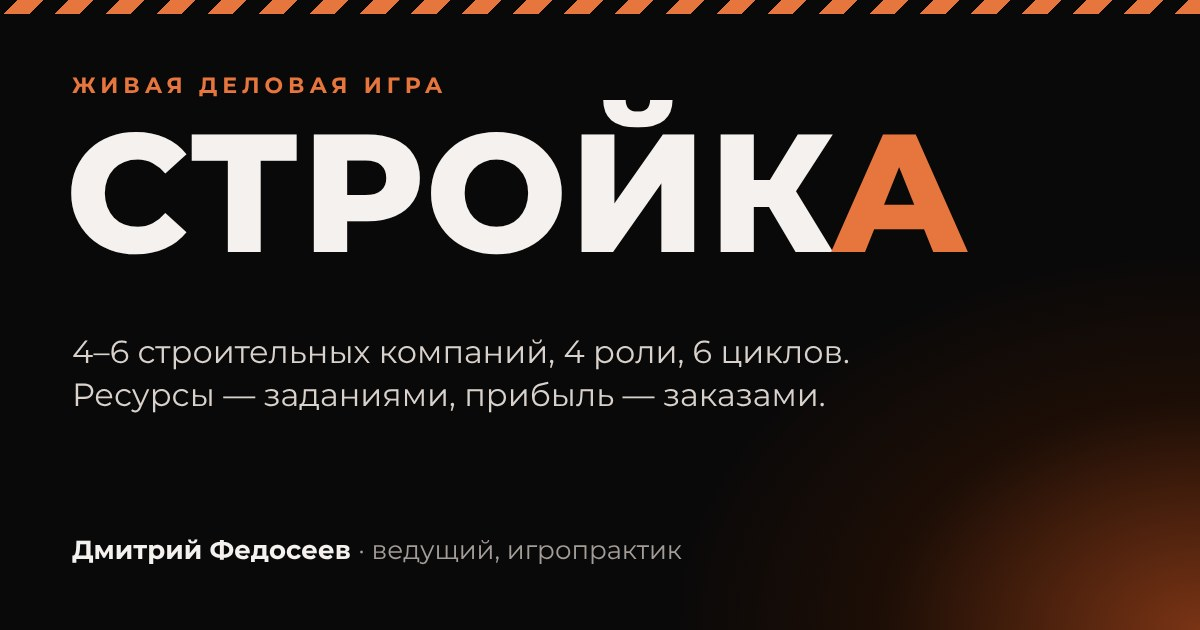
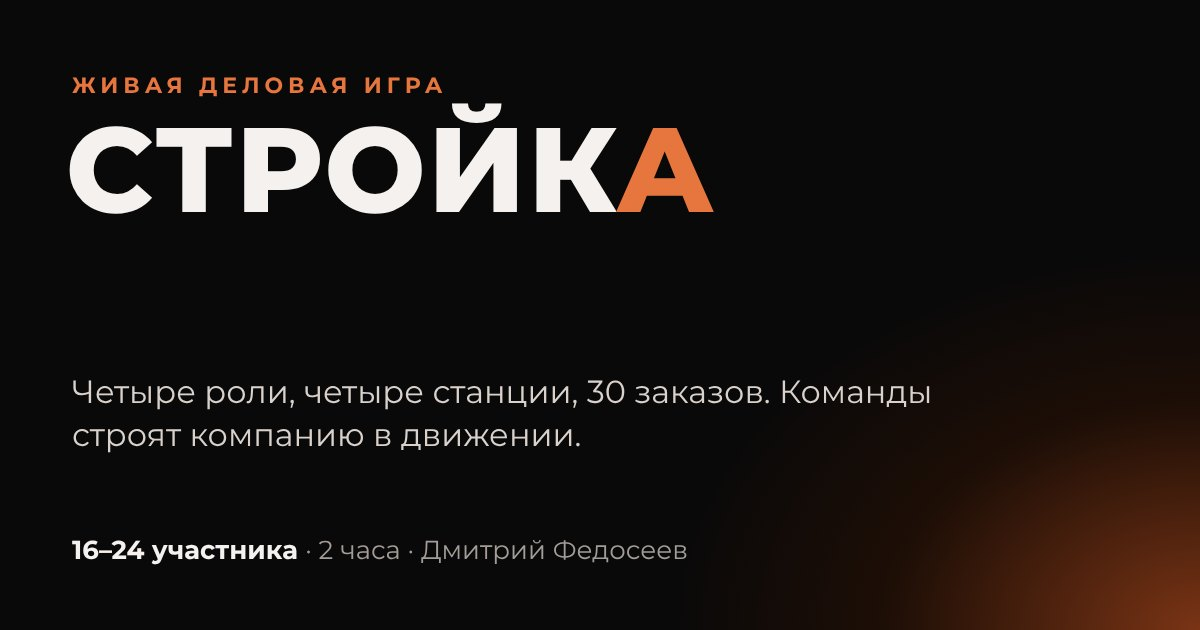
Add files via upload

diff --git a/index.html b/index.html
@@ -209,45 +209,79 @@ footer .wrap { padding-block: 22px; display: flex; flex-wrap: wrap; gap: 8px 24p
 @media (max-width: 900px) { .contact .wrap { grid-template-columns: 1fr; } .crow { grid-template-columns: minmax(0, 1fr) auto; } .crow span { grid-column: 1 / -1; } }
 </style>
 <style>
-/* Стройка: тот же фирменный стиль, свой мотив — разметка зала и строительные «ленты» */
-.tape { height: 10px; background: repeating-linear-gradient(-45deg, var(--accent) 0 14px, var(--bg) 14px 28px); opacity: .9; }
-.back { font-size: 14px; color: var(--dim); text-decoration: none; white-space: nowrap; }
-.back:hover { color: var(--ink); }
 @media (max-width: 560px) { .back { display: none; } }
 
-/* схема зала */
-.hall { position: relative; border: 1px dashed #4A403A; background:
-  linear-gradient(var(--line) 1px, transparent 1px) 0 0 / 40px 40px,
-  linear-gradient(90deg, var(--line) 1px, transparent 1px) 0 0 / 40px 40px, #0D0B0A;
-  aspect-ratio: 4 / 3; max-width: 100%; }
-.st { position: absolute; width: 33%; padding: 12px 14px; background: var(--panel); border: 1px solid var(--line); border-left: 3px solid var(--accent); }
-.st b { display: block; font-family: var(--f-display); font-weight: 800; font-size: 15px; }
-.st span { display: block; margin-top: 2px; font-size: 12px; color: var(--dim); line-height: 1.3; }
-.st.tl { left: 4%; top: 5%; } .st.tr { right: 4%; top: 5%; } .st.bl { left: 4%; bottom: 5%; } .st.br { right: 4%; bottom: 5%; }
-.board { position: absolute; left: 50%; top: 50%; transform: translate(-50%, -50%); width: 30%; padding: 12px; text-align: center; background: var(--accent); color: var(--accent-ink); font-family: var(--f-display); font-weight: 800; font-size: 14px; }
-.board small { display: block; font-weight: 600; font-size: 11px; margin-top: 2px; }
-.base { position: absolute; width: 9%; aspect-ratio: 1; border: 1px solid #5A4E46; background: rgba(230,118,62,.08); display: grid; place-items: center; font-family: var(--f-display); font-weight: 700; font-size: 11px; color: var(--dim); }
-.hall-cap { margin-top: 10px; font-size: 13px; color: var(--dim); }
-@media (max-width: 520px) { .st { width: 37%; padding: 8px 9px; } .st b { font-size: 12px; } .st span { display: none; } .board { font-size: 11px; width: 34%; } .board small { display: none; } .base { font-size: 9px; } }
+/* веер карт заказов */
+.fan { position: relative; height: 420px; --dx: 192px; }
+.oc { position: absolute; top: 50%; left: 50%; width: 182px; min-height: 290px; padding: 14px 14px 12px; display: flex; flex-direction: column; gap: 10px;
+  background: linear-gradient(168deg, #201C19, #0E0C0B 70%); border: 1px solid #3A322D; box-shadow: 0 24px 60px rgba(0,0,0,.65); }
+.oc.a { transform: translate(calc(-50% - var(--dx)), -47%) rotate(-7deg); }
+.oc.b { transform: translate(-50%, -54%); z-index: 2; border-color: var(--accent); }
+.oc.c { transform: translate(calc(-50% + var(--dx)), -47%) rotate(7deg); }
+.oc .top { display: flex; justify-content: space-between; font-family: var(--f-display); font-weight: 700; font-size: 10px; letter-spacing: .16em; text-transform: uppercase; color: var(--dim); }
+.oc .top b { color: var(--accent); font-weight: 700; }
+.oc.m .top b { color: #E8B92E; }
+.oc h4 { margin: 2px 0 0; font-family: var(--f-display); font-weight: 800; font-size: 17px; line-height: 1.1; }
+.oc .need { display: grid; gap: 5px; font-size: 13px; }
+.oc .need div { display: flex; align-items: center; gap: 8px; }
+.oc .need svg { width: 20px; height: 20px; flex: none; }
+.oc .need b { margin-left: auto; font-family: var(--f-display); font-weight: 800; font-variant-numeric: tabular-nums; }
+.oc .req { margin-top: auto; font-size: 11px; color: var(--dim); }
+.oc .pay { display: grid; grid-template-columns: 1fr 1fr; gap: 6px; }
+.oc .pay div { padding: 6px 8px; font-size: 10px; letter-spacing: .08em; text-transform: uppercase; }
+.oc .pay b { display: block; font-family: var(--f-display); font-size: 20px; letter-spacing: 0; text-transform: none; font-variant-numeric: tabular-nums; }
+.oc .win { background: rgba(92,192,138,.14); color: #8FD9AE; }
+.oc .loss { background: rgba(226,109,90,.14); color: #F0A091; }
+.fan-cap { margin-top: 6px; font-size: 13px; color: var(--dim); }
+.chips { position: absolute; left: 50%; bottom: 0; transform: translateX(-50%); display: flex; gap: 8px; z-index: 3; }
+.chips span { display: grid; place-items: center; width: 44px; height: 44px; background: var(--panel); border: 1px solid var(--line); }
+.chips svg { width: 26px; height: 26px; }
+@media (max-width: 1000px) { .fan { height: 400px; --dx: 160px; } .oc { width: 156px; min-height: 260px; } .oc h4 { font-size: 16px; } .oc .need { font-size: 12px; } }
+@media (max-width: 560px) { .fan { height: 290px; --dx: 112px; } .oc { width: 106px; min-height: 190px; padding: 10px; gap: 6px; } .oc h4 { font-size: 13px; } .oc .need { font-size: 10px; gap: 3px; } .oc .need svg { width: 14px; height: 14px; } .oc .pay b { font-size: 14px; } .oc .pay div { font-size: 8px; padding: 4px 5px; } .oc .top { font-size: 8px; } .oc .req { display: none; } .oc .top b { display: none; } .oc .pay { grid-template-columns: 1fr; gap: 3px; } .oc h4 { font-size: 12px; hyphens: auto; } .fan { height: 330px; } .chips span { width: 34px; height: 34px; } .chips svg { width: 20px; height: 20px; } }
 
 /* роли */
 .roles { display: grid; grid-template-columns: repeat(4, minmax(0, 1fr)); gap: 14px; }
-.role { padding: 22px 20px 22px; background: var(--panel); border: 1px solid var(--line); min-width: 0; display: flex; flex-direction: column; gap: 10px; }
-.role .badge { align-self: flex-start; font-family: var(--f-display); font-weight: 700; font-size: 11px; letter-spacing: .14em; text-transform: uppercase; padding: 5px 9px; background: var(--panel-2); border: 1px solid var(--line); color: var(--dim); }
+.role { padding: 22px 20px; background: var(--panel); border: 1px solid var(--line); min-width: 0; display: flex; flex-direction: column; gap: 10px; }
+.role .num { font-family: var(--f-display); font-weight: 900; font-size: 34px; line-height: 1; color: var(--accent); }
+.role .badge { align-self: flex-start; font-family: var(--f-display); font-weight: 700; font-size: 11px; letter-spacing: .14em; text-transform: uppercase; color: var(--dim); }
 .role h3 { font-size: 20px; font-weight: 800; }
 .role p { font-size: 14px; color: var(--dim); }
-.role .lim { margin-top: auto; padding-top: 12px; border-top: 1px solid var(--line); font-size: 13px; color: var(--ink); }
+.role .lim { margin-top: auto; padding-top: 12px; border-top: 1px solid var(--line); font-size: 13px; }
 @media (max-width: 900px) { .roles { grid-template-columns: 1fr 1fr; } }
 @media (max-width: 520px) { .roles { grid-template-columns: 1fr; } }
 
+/* план зала */
+.plan { display: grid; grid-template-columns: minmax(0, 1.25fr) minmax(0, 1fr); gap: 32px; align-items: center; margin-top: 40px; }
+.plan svg { width: 100%; height: auto; display: block; }
+.plan ol { margin: 0; padding: 0; list-style: none; display: grid; gap: 16px; counter-reset: s; }
+.plan li { display: grid; grid-template-columns: 34px minmax(0, 1fr); gap: 12px; font-size: 15px; color: var(--dim); }
+.plan li::before { counter-increment: s; content: counter(s); display: grid; place-items: center; width: 34px; height: 34px; border: 1px solid var(--accent); color: var(--accent); font-family: var(--f-display); font-weight: 800; }
+.plan li b { color: var(--ink); font-weight: 600; }
+@media (max-width: 900px) { .plan { grid-template-columns: 1fr; } }
+
 /* ресурсы */
 .res { display: grid; grid-template-columns: repeat(5, minmax(0, 1fr)); gap: 1px; background: var(--line); border: 1px solid var(--line); }
-.res div { background: var(--bg); padding: 18px 16px 20px; min-width: 0; }
+.res > div { background: var(--bg); padding: 20px 18px; min-width: 0; display: flex; flex-direction: column; gap: 8px; }
+.res svg { width: 40px; height: 40px; }
 .res .cls { font-family: var(--f-display); font-weight: 700; font-size: 11px; letter-spacing: .14em; text-transform: uppercase; color: var(--dim); }
 .res .cls.el { color: var(--accent); }
-.res h3 { margin: 8px 0 6px; font-size: 18px; font-weight: 800; }
+.res h3 { font-size: 18px; font-weight: 800; }
 .res p { font-size: 14px; color: var(--dim); }
+.res .rw { margin-top: auto; font-size: 13px; color: var(--ink); }
 @media (max-width: 900px) { .res { grid-template-columns: 1fr 1fr; } }
+
+/* уровни заказов и капитал */
+.lv { width: 100%; border-collapse: collapse; font-size: 15px; }
+.lv th, .lv td { text-align: left; padding: 14px 16px; border-bottom: 1px solid var(--line); }
+.lv th { font-family: var(--f-display); font-weight: 700; font-size: 11px; letter-spacing: .14em; text-transform: uppercase; color: var(--dim); }
+.lv td:first-child { font-family: var(--f-display); font-weight: 800; }
+.lv .g { color: #8FD9AE; } .lv .r { color: #F0A091; }
+.tblwrap { overflow-x: auto; border: 1px solid var(--line); background: var(--panel); }
+.cap { margin-top: 18px; display: grid; grid-template-columns: auto minmax(0, 1fr); gap: 28px; align-items: center; padding: 24px 26px; border: 1px solid var(--accent); background: linear-gradient(160deg, rgba(230,118,62,.12), var(--panel) 60%); }
+.cap .f { font-family: var(--f-display); font-weight: 800; font-size: clamp(18px, 2vw, 24px); line-height: 1.25; max-width: 22ch; }
+.cap .f i { font-style: normal; color: var(--accent); }
+.cap p { font-size: 14px; color: var(--dim); }
+@media (max-width: 800px) { .cap { grid-template-columns: 1fr; gap: 10px; } }
 
 /* цикл */
 .cycle { display: grid; grid-template-columns: 1fr 11fr 3fr; border: 1px solid var(--line); }
@@ -260,53 +294,48 @@ footer .wrap { padding-block: 22px; display: flex; flex-wrap: wrap; gap: 8px 24p
 .arc { margin-top: 18px; display: grid; grid-template-columns: repeat(3, minmax(0, 1fr)); gap: 14px; }
 .arc div { border-top: 2px solid var(--accent); padding-top: 14px; min-width: 0; }
 .arc .n { font-family: var(--f-display); font-weight: 700; font-size: 12px; letter-spacing: .14em; color: var(--dim); }
-.arc h3 { margin: 6px 0 6px; font-size: 18px; font-weight: 800; }
+.arc h3 { margin: 6px 0; font-size: 18px; font-weight: 800; }
 .arc p { font-size: 14px; color: var(--dim); }
 @media (max-width: 700px) { .cycle { grid-template-columns: 1fr; } .cycle div { border-left: 0; border-top: 1px solid var(--line); } .cycle div:first-child { border-top: 0; } .arc { grid-template-columns: 1fr; } }
-
-.compare { margin-top: 18px; display: grid; grid-template-columns: minmax(0, 1fr) auto; gap: 20px; align-items: center; padding: 22px 24px; border: 1px solid var(--line); background: var(--panel); }
-.compare h3 { font-size: 18px; font-weight: 800; }
-.compare p { margin-top: 6px; font-size: 15px; color: var(--dim); max-width: 62ch; }
-@media (max-width: 700px) { .compare { grid-template-columns: 1fr; } }
 </style>
 
 </head>
 <body>
 <header class="top"><div class="wrap">
   <a class="logo" href="#top"><i class="slash"></i>СТРОЙКА</a>
-  <a class="back" href="https://dfedoseev04.github.io/">← Все игры и выступления</a>
-  <nav><a href="#for">Для кого</a><a href="#how">Как устроена</a><a href="#process">Как проходит</a><a href="#faq">Вопросы</a></nav>
+  <a class="back" href="https://dfedoseev04.github.io/#games">← Все игры и выступления</a>
+  <nav><a href="#for">Для кого</a><a href="#how">Как устроена</a><a href="#orders">Заказы</a><a href="#process">Как проходит</a><a href="#faq">Вопросы</a></nav>
   <a class="btn" href="https://t.me/Faterful" target="_blank" rel="noopener">Обсудить игру</a>
 </div></header>
-<div class="tape" aria-hidden="true"></div>
 
 <main id="top">
 <section class="hero"><div class="wrap">
   <div>
     <div class="brand"><i class="slash"></i><span>СТРОЙК<b>А</b></span></div>
-    <h1>Живая деловая игра: команды <em>строят компанию в движении</em></h1>
-    <p class="lead">Каждый игрок отвечает за свой участок: деньги, заказы, снабжение или развитие. Ресурсы добываются заданиями на силу, логику, творчество и командную работу, а прибыль приносят заказы, сданные в срок. Всё это без экранов и техники, на ногах.</p>
+    <h1>Живая деловая игра, в которой команды <em>строят компанию в движении</em></h1>
+    <p class="lead">Четыре роли, четыре станции и ни одного экрана. Снабженец добывает ресурсы заданиями на силу, логику и творчество, Менеджер берёт заказы, Инженер развивает компанию, а Управляющий решает, на что тратить каждую монету.</p>
     <div class="cta"><a class="btn" href="https://t.me/Faterful" target="_blank" rel="noopener">Написать в Telegram</a><a class="btn ghost" href="#how">Как устроена игра</a></div>
     <div class="params">
       <div><b>16–24</b><span>участника, 4–6 команд по 4</span></div>
       <div><b>2 часа</b><span>6 игровых циклов и итоги</span></div>
-      <div><b>4 роли</b><span>у каждого игрока своя</span></div>
-      <div><b>без техники</b><span>зал, станции и ведущие</span></div>
+      <div><b>30 заказов</b><span>от плиты до космического модуля</span></div>
+      <div><b>без техники</b><span>карты, фишки и ведущие</span></div>
     </div>
   </div>
   <figure style="margin:0">
-    <div class="hall" role="img" aria-label="Схема зала: четыре станции по углам, табло в центре, базы команд вдоль стен">
-      <div class="st tl"><b>Рынок</b><span>заказы, продажа ресурсов, договоры</span></div>
-      <div class="st tr"><b>Цех снабжения</b><span>задания за ресурсы</span></div>
-      <div class="st bl"><b>Переговорная</b><span>касса команды и договоры</span></div>
-      <div class="st br"><b>Конструкторское бюро</b><span>улучшения компании</span></div>
-      <div class="board">ТАБЛО<small>капитал и репутация команд</small></div>
-      <div class="base" style="left:45.5%;top:3%">А</div>
-      <div class="base" style="left:45.5%;bottom:3%">Б</div>
-      <div class="base" style="left:2%;top:41%">В</div>
-      <div class="base" style="right:2%;top:41%">Г</div>
+    <div class="fan" role="img" aria-label="Три карты заказов: Фундаментная плита, Каркас здания и Космический модуль, под ними фишки пяти ресурсов">
+      <div class="oc a"><div class="top"><span>Лёгкий</span><b>2 цикла</b></div><h4>Фундаментная плита</h4>
+        <div class="need"><div><svg viewBox="0 0 24 24" aria-hidden="true"><path d="M3 17 6.5 8h11L21 17Z" fill="#8E8A86" stroke="#C9C4BF" stroke-width="1.2"/><path d="M6.5 8 8 11h8l1.5-3" fill="none" stroke="#C9C4BF" stroke-width="1"/></svg>металл<b>×2</b></div><div><svg viewBox="0 0 24 24" aria-hidden="true"><path d="M12 3 20 7.5v9L12 21l-8-4.5v-9Z" fill="#1A1817" stroke="#6E6863" stroke-width="1.2"/><path d="M4 7.5 12 12l8-4.5M12 12v9" fill="none" stroke="#6E6863" stroke-width="1.2"/></svg>бетон<b>×1</b></div></div>
+        <div class="req">Доступен сразу</div><div class="pay"><div class="win">Награда<b>+6</b></div><div class="loss">Неустойка<b>−2</b></div></div></div>
+      <div class="oc b"><div class="top"><span>Сложный</span><b>2 цикла</b></div><h4>Каркас здания</h4>
+        <div class="need"><div><svg viewBox="0 0 24 24" aria-hidden="true"><path d="M3 17 6.5 8h11L21 17Z" fill="#8E8A86" stroke="#C9C4BF" stroke-width="1.2"/><path d="M6.5 8 8 11h8l1.5-3" fill="none" stroke="#C9C4BF" stroke-width="1"/></svg>металл<b>×5</b></div><div><svg viewBox="0 0 24 24" aria-hidden="true"><rect x="2.5" y="7" width="19" height="10" rx="1.5" fill="#8A5A34" stroke="#C08A5C" stroke-width="1.2"/><path d="M5 10.5h8M9 13.5h9M5 13.5h1.5" stroke="#C08A5C" stroke-width="1.1" stroke-linecap="round"/></svg>дерево<b>×4</b></div><div><svg viewBox="0 0 24 24" aria-hidden="true"><path d="M12 3 20 7.5v9L12 21l-8-4.5v-9Z" fill="#1A1817" stroke="#6E6863" stroke-width="1.2"/><path d="M4 7.5 12 12l8-4.5M12 12v9" fill="none" stroke="#6E6863" stroke-width="1.2"/></svg>бетон<b>×2</b></div></div>
+        <div class="req">Нужна репутация 6+</div><div class="pay"><div class="win">Награда<b>+26</b></div><div class="loss">Неустойка<b>−10</b></div></div></div>
+      <div class="oc c m"><div class="top"><span>Мега</span><b>3 цикла</b></div><h4>Космический модуль</h4>
+        <div class="need"><div><svg viewBox="0 0 24 24" aria-hidden="true"><path d="M3 17 6.5 8h11L21 17Z" fill="#8E8A86" stroke="#C9C4BF" stroke-width="1.2"/><path d="M6.5 8 8 11h8l1.5-3" fill="none" stroke="#C9C4BF" stroke-width="1"/></svg>металл<b>×5</b></div><div><svg viewBox="0 0 24 24" aria-hidden="true"><rect x="2.5" y="7" width="19" height="10" rx="1.5" fill="#8A5A34" stroke="#C08A5C" stroke-width="1.2"/><path d="M5 10.5h8M9 13.5h9M5 13.5h1.5" stroke="#C08A5C" stroke-width="1.1" stroke-linecap="round"/></svg>дерево<b>×5</b></div><div><svg viewBox="0 0 24 24" aria-hidden="true"><path d="M3 8c3-2.5 6 2.5 9 0s6 2.5 9 0v9c-3 2.5-6-2.5-9 0s-6-2.5-9 0Z" fill="#E9E4DE" stroke="#FFFFFF" stroke-width=".8"/></svg>ткань<b>×4</b></div><div><svg viewBox="0 0 24 24" aria-hidden="true"><path d="M12 3 20 7.5v9L12 21l-8-4.5v-9Z" fill="#1A1817" stroke="#6E6863" stroke-width="1.2"/><path d="M4 7.5 12 12l8-4.5M12 12v9" fill="none" stroke="#6E6863" stroke-width="1.2"/></svg>бетон<b>×3</b></div><div><svg viewBox="0 0 24 24" aria-hidden="true"><circle cx="12" cy="12" r="9.5" fill="#E8B92E"/><path d="M13.2 4.8 7.8 13h4l-1 6.2L16.2 11h-4Z" fill="#2A1E05"/></svg>энергия<b>×3</b></div></div>
+        <div class="req">Репутация 7+, с 4 цикла</div><div class="pay"><div class="win">Награда<b>+59</b></div><div class="loss">Неустойка<b>−24</b></div></div></div>
+      <div class="chips" aria-hidden="true"><span><svg viewBox="0 0 24 24" aria-hidden="true"><path d="M3 17 6.5 8h11L21 17Z" fill="#8E8A86" stroke="#C9C4BF" stroke-width="1.2"/><path d="M6.5 8 8 11h8l1.5-3" fill="none" stroke="#C9C4BF" stroke-width="1"/></svg></span><span><svg viewBox="0 0 24 24" aria-hidden="true"><rect x="2.5" y="7" width="19" height="10" rx="1.5" fill="#8A5A34" stroke="#C08A5C" stroke-width="1.2"/><path d="M5 10.5h8M9 13.5h9M5 13.5h1.5" stroke="#C08A5C" stroke-width="1.1" stroke-linecap="round"/></svg></span><span><svg viewBox="0 0 24 24" aria-hidden="true"><path d="M3 8c3-2.5 6 2.5 9 0s6 2.5 9 0v9c-3 2.5-6-2.5-9 0s-6-2.5-9 0Z" fill="#E9E4DE" stroke="#FFFFFF" stroke-width=".8"/></svg></span><span><svg viewBox="0 0 24 24" aria-hidden="true"><circle cx="12" cy="12" r="9.5" fill="#E8B92E"/><path d="M13.2 4.8 7.8 13h4l-1 6.2L16.2 11h-4Z" fill="#2A1E05"/></svg></span><span><svg viewBox="0 0 24 24" aria-hidden="true"><path d="M12 3 20 7.5v9L12 21l-8-4.5v-9Z" fill="#1A1817" stroke="#6E6863" stroke-width="1.2"/><path d="M4 7.5 12 12l8-4.5M12 12v9" fill="none" stroke="#6E6863" stroke-width="1.2"/></svg></span></div>
     </div>
-    <figcaption class="hall-cap">Так выглядит зал: четыре станции по углам, табло в центре, базы команд вдоль стен.</figcaption>
+    <figcaption class="fan-cap">Макеты карт заказов. Ресурсы, награда, неустойка и пороги репутации — из правил игры.</figcaption>
   </figure>
 </div></section>
 
@@ -340,31 +369,81 @@ footer .wrap { padding-block: 22px; display: flex; flex-wrap: wrap; gap: 8px 24p
 <section class="block" id="how"><div class="wrap">
   <div class="sec-head">
     <div><div class="eyebrow">Как устроена</div><h2>Четыре роли — четыре станции</h2></div>
-    <p>Каждый игрок может действовать только на своей станции, а все деньги и ресурсы хранятся у Управляющего. Поэтому команда выигрывает, только если быстро передаёт информацию и доверяет друг другу.</p>
+    <p>Каждый игрок действует только на своей станции, а все деньги и ресурсы хранятся у Управляющего. Команда выигрывает, только если быстро передаёт информацию и доверяет друг другу.</p>
   </div>
   <div class="roles">
-    <div class="role"><span class="badge">Переговорная</span><h3>Управляющий</h3><p>Держит кассу и склад, решает, какие заказы брать, заключает договоры с другими командами.</p><div class="lim">Главный стратег и узкое место команды</div></div>
-    <div class="role"><span class="badge">Рынок</span><h3>Менеджер по заказам</h3><p>Берёт заказы с доски, сдаёт выполненные, покупает и продаёт ресурсы, следит за конкурентами.</p><div class="lim">Не больше 3 заказов одновременно</div></div>
-    <div class="role"><span class="badge">Цех снабжения</span><h3>Снабженец</h3><p>Выполняет задания у ведущих и приносит ресурсы. Провалил задание — ресурса нет.</p><div class="lim">5 попыток за цикл</div></div>
-    <div class="role"><span class="badge">Конструкторское бюро</span><h3>Инженер</h3><p>Покупает улучшения компании: решает задачу бюро и вкладывает ресурсы в развитие.</p><div class="lim">До 3 улучшений одновременно</div></div>
+    <div class="role"><div class="num">01</div><span class="badge">Переговорная</span><h3>Управляющий</h3><p>Держит кассу и склад, решает, какие заказы брать, заключает договоры с другими командами.</p><div class="lim">Главный стратег и узкое место команды</div></div>
+    <div class="role"><div class="num">02</div><span class="badge">Рынок</span><h3>Менеджер по заказам</h3><p>Берёт заказы с доски, сдаёт выполненные, покупает и продаёт ресурсы, следит за конкурентами.</p><div class="lim">Не больше 3 заказов одновременно</div></div>
+    <div class="role"><div class="num">03</div><span class="badge">Цех снабжения</span><h3>Снабженец</h3><p>Выполняет задания у ведущих и приносит ресурсы. Провалил задание — ресурса нет.</p><div class="lim">5 жетонов-попыток за цикл</div></div>
+    <div class="role"><div class="num">04</div><span class="badge">Конструкторское бюро</span><h3>Инженер</h3><p>Покупает улучшения компании: 4 ветки по 3 уровня, по одной ветке на каждую роль.</p><div class="lim">12 улучшений на выбор</div></div>
   </div>
 
-  <div style="margin-top:40px">
+  <div class="plan">
+    <svg viewBox="0 0 640 440" role="img" aria-label="План зала: четыре станции по углам, табло в центре, базы шести команд вдоль стен, пунктиром — маршруты игроков">
+      <defs><pattern id="g" width="32" height="32" patternUnits="userSpaceOnUse"><path d="M32 0H0V32" fill="none" stroke="#1E1A18" stroke-width="1"/></pattern></defs>
+      <rect x="1" y="1" width="638" height="438" fill="#0D0B0A"/><rect x="1" y="1" width="638" height="438" fill="url(#g)" stroke="#3A322D" stroke-width="2"/>
+      <g font-family="Montserrat, Arial" font-weight="800" font-size="15" fill="#F4F1EE">
+        <rect x="24" y="24" width="168" height="74" fill="#141211" stroke="#2A2522"/><rect x="24" y="24" width="4" height="74" fill="#E6763E"/><text x="42" y="56">Рынок</text>
+        <rect x="448" y="24" width="168" height="74" fill="#141211" stroke="#2A2522"/><rect x="448" y="24" width="4" height="74" fill="#E6763E"/><text x="466" y="56">Цех снабжения</text>
+        <rect x="24" y="342" width="168" height="74" fill="#141211" stroke="#2A2522"/><rect x="24" y="342" width="4" height="74" fill="#E6763E"/><text x="42" y="374">Переговорная</text>
+        <rect x="448" y="342" width="168" height="74" fill="#141211" stroke="#2A2522"/><rect x="448" y="342" width="4" height="74" fill="#E6763E"/><text x="466" y="374">Конструкторское</text><text x="466" y="394">бюро</text>
+        <rect x="236" y="186" width="168" height="68" fill="#E6763E"/><text x="320" y="216" text-anchor="middle" fill="#160A04">ТАБЛО</text>
+      </g>
+      <g font-family="Golos Text, Arial" font-size="12" fill="#A8A19B">
+        <text x="42" y="76">заказы, торговля</text><text x="466" y="76">задания за ресурсы</text><text x="42" y="404">касса и договоры</text>
+        <text x="320" y="238" text-anchor="middle" fill="#3A1A08">капитал и репутация</text>
+      </g>
+      <g fill="rgba(230,118,62,.1)" stroke="#6A5A50">
+        <rect x="282" y="20" width="76" height="40"/><rect x="282" y="380" width="76" height="40"/>
+        <rect x="20" y="150" width="40" height="64"/><rect x="20" y="226" width="40" height="64"/>
+        <rect x="580" y="150" width="40" height="64"/><rect x="580" y="226" width="40" height="64"/>
+      </g>
+      <g font-family="Montserrat, Arial" font-weight="700" font-size="11" fill="#D6CFC9" text-anchor="middle">
+        <text x="320" y="44">Команда 1</text><text x="320" y="404">Команда 2</text>
+        <text x="40" y="186">К3</text><text x="40" y="262">К4</text><text x="600" y="186">К5</text><text x="600" y="262">К6</text>
+      </g>
+      <g fill="none" stroke="#E6763E" stroke-width="2" stroke-dasharray="6 6" opacity=".85">
+        <path d="M300 62 C 260 120, 200 90, 192 70"/><path d="M340 62 C 380 110, 430 90, 448 66"/>
+        <path d="M300 378 C 250 330, 210 380, 192 380"/><path d="M340 378 C 390 330, 430 380, 448 380"/>
+      </g>
+    </svg>
+    <ol>
+      <li><span><b>Станции по углам.</b> На каждой — ведущий и свои правила: на Рынке доска заказов, в Цехе — карточки заданий.</span></li>
+      <li><span><b>Базы команд вдоль стен.</b> Здесь Управляющий держит кассу и склад, сюда стекаются все ресурсы.</span></li>
+      <li><span><b>Табло в центре.</b> После каждого цикла ведущие обновляют капитал и репутацию — видно, кто вырвался вперёд.</span></li>
+      <li><span><b>Маршруты игроков.</b> Пунктир — путь Менеджера и Снабженца команды 1. Кто быстрее ходит и договаривается, тот больше успевает.</span></li>
+    </ol>
+  </div>
+
+  <div style="margin-top:48px">
     <div class="eyebrow" style="margin-bottom:14px">Ресурсы добываются заданиями</div>
     <div class="res">
-      <div><div class="cls">обычный</div><h3>Металл</h3><p>Силовые: приседания, баланс, прыжки</p></div>
-      <div><div class="cls">обычный</div><h3>Дерево</h3><p>Логические: анаграммы, числовые ряды, задачи</p></div>
-      <div><div class="cls">обычный</div><h3>Ткань</h3><p>Творческие: пантомима, ассоциации, рекламный стих</p></div>
-      <div><div class="cls el">ценный</div><h3>Энергия</h3><p>На память и на ощупь</p></div>
-      <div><div class="cls el">ценный</div><h3>Бетон</h3><p>Командные: синхронность и общий рисунок</p></div>
+      <div><svg viewBox="0 0 24 24" aria-hidden="true"><path d="M3 17 6.5 8h11L21 17Z" fill="#8E8A86" stroke="#C9C4BF" stroke-width="1.2"/><path d="M6.5 8 8 11h8l1.5-3" fill="none" stroke="#C9C4BF" stroke-width="1"/></svg><div class="cls">обычный</div><h3>Металл</h3><p>Силовые: приседания, баланс, прыжки</p><div class="rw">2 за задание, 3 с бонусом</div></div>
+      <div><svg viewBox="0 0 24 24" aria-hidden="true"><rect x="2.5" y="7" width="19" height="10" rx="1.5" fill="#8A5A34" stroke="#C08A5C" stroke-width="1.2"/><path d="M5 10.5h8M9 13.5h9M5 13.5h1.5" stroke="#C08A5C" stroke-width="1.1" stroke-linecap="round"/></svg><div class="cls">обычный</div><h3>Дерево</h3><p>Логические: анаграммы, числовые ряды, задачи</p><div class="rw">2 за задание, 3 с бонусом</div></div>
+      <div><svg viewBox="0 0 24 24" aria-hidden="true"><path d="M3 8c3-2.5 6 2.5 9 0s6 2.5 9 0v9c-3 2.5-6-2.5-9 0s-6-2.5-9 0Z" fill="#E9E4DE" stroke="#FFFFFF" stroke-width=".8"/></svg><div class="cls">обычный</div><h3>Ткань</h3><p>Творческие: пантомима, ассоциации, рекламный стих</p><div class="rw">2 за задание, 3 с бонусом</div></div>
+      <div><svg viewBox="0 0 24 24" aria-hidden="true"><circle cx="12" cy="12" r="9.5" fill="#E8B92E"/><path d="M13.2 4.8 7.8 13h4l-1 6.2L16.2 11h-4Z" fill="#2A1E05"/></svg><div class="cls el">элитный</div><h3>Энергия</h3><p>На память и на ощупь</p><div class="rw">1 за задание, 2 с бонусом</div></div>
+      <div><svg viewBox="0 0 24 24" aria-hidden="true"><path d="M12 3 20 7.5v9L12 21l-8-4.5v-9Z" fill="#1A1817" stroke="#6E6863" stroke-width="1.2"/><path d="M4 7.5 12 12l8-4.5M12 12v9" fill="none" stroke="#6E6863" stroke-width="1.2"/></svg><div class="cls el">элитный</div><h3>Бетон</h3><p>Командные: Снабженец и ещё двое игроков</p><div class="rw">1 за задание, 2 с бонусом</div></div>
     </div>
   </div>
+</div></section>
 
-  <div class="mech" style="margin-top:18px">
-    <div class="mcell"><div class="k">Заказы</div><h3>Срок, награда, неустойка</h3><p>Заказы от «Фундаментной плиты» до мега-объектов. Сданный вовремя приносит монеты и репутацию, сорванный — штраф.</p></div>
-    <div class="mcell"><div class="k">Репутация</div><h3>Доверие открывает рынок</h3><p>Сложные и мега-заказы доступны только командам с высокой репутацией. Срыв стоит вдвое дороже успеха.</p></div>
-    <div class="mcell"><div class="k">Договоры</div><h3>Сделки между командами</h3><p>Поставка, обмен, займ, субподряд — на бланке с подписями. Исполненный договор поднимает репутацию обеих сторон.</p></div>
-    <div class="mcell"><div class="k">Рынок</div><h3>Цены меняются каждый цикл</h3><p>Дефицит металла, бум деревянного домостроения, зимний сезон. Иногда продать ресурс выгоднее, чем сдать заказ.</p></div>
+<section class="block" id="orders"><div class="wrap">
+  <div class="sec-head">
+    <div><div class="eyebrow">Заказы и репутация</div><h2>Чем сложнее заказ, тем выше доверие</h2></div>
+    <p>Заказ сдаётся целиком и в срок. Сданный приносит монеты и репутацию, сорванный — неустойку. Репутация открывает доступ к сложным и мега-заказам, поэтому одна ошибка в начале может закрыть самые выгодные объекты.</p>
+  </div>
+  <div class="tblwrap"><table class="lv">
+    <thead><tr><th>Уровень</th><th>Когда доступен</th><th>Срок</th><th>Репутация: сдан / сорван</th><th>Примеры</th></tr></thead>
+    <tbody>
+      <tr><td>Лёгкий</td><td>сразу</td><td>2 цикла</td><td><span class="g">+1</span> / <span class="r">−2</span></td><td>Фундаментная плита, опалубка, леса</td></tr>
+      <tr><td>Средний</td><td>репутация 4+</td><td>2 цикла</td><td><span class="g">+1</span> / <span class="r">−2</span></td><td>Перекрытия, кровля, электропроводка</td></tr>
+      <tr><td>Сложный</td><td>репутация 6+</td><td>2 цикла</td><td><span class="g">+1</span> / <span class="r">−2</span></td><td>Каркас здания, бассейн, лифты</td></tr>
+      <tr><td>Мега</td><td>репутация 7+, с 4 цикла</td><td>3 цикла</td><td><span class="g">+2</span> / <span class="r">−3</span></td><td>Космический модуль, ангар для шаттлов</td></tr>
+    </tbody>
+  </table></div>
+  <div class="cap">
+    <div class="f">Капитал = монеты + <i>3 × репутация</i> + престиж улучшений</div>
+    <p>Старт у всех одинаковый: 5 монет и репутация 3. Улучшение 1 уровня даёт 3 очка престижа, 2 уровня — 8, 3 уровня — 14. Команда с репутацией ниже 3 на призовые места не претендует.</p>
   </div>
 </div></section>
 
@@ -383,10 +462,6 @@ footer .wrap { padding-block: 22px; display: flex; flex-wrap: wrap; gap: 8px 24p
     <div><div class="n">ЦИКЛЫ 1–2</div><h3>Разгон</h3><p>Лёгкие заказы и первые улучшения. Команды учатся работать вместе.</p></div>
     <div><div class="n">ЦИКЛЫ 3–4</div><h3>Рост</h3><p>С репутацией открываются сложные заказы, с 4 цикла — мега-объекты.</p></div>
     <div><div class="n">ЦИКЛЫ 5–6</div><h3>Финальный рывок</h3><p>Всё сдаётся до финального гонга, потом считается капитал.</p></div>
-  </div>
-  <div class="compare">
-    <div><h3>Нужна игра с цифрами и большим экраном?</h3><p>«ТРЕСТ» — бизнес-симуляция на NFC-картах: производство, живой рынок и автоматический отчёт о партии. Подходит для вузов и компаний.</p></div>
-    <a class="btn ghost" href="https://dfedoseev04.github.io/trest/">Смотреть «ТРЕСТ»</a>
   </div>
 </div></section>
 
@@ -409,6 +484,22 @@ footer .wrap { padding-block: 22px; display: flex; flex-wrap: wrap; gap: 8px 24p
     </div>
   </div>
 </div></section>
+
+<style>
+.og-grid { display: grid; grid-template-columns: repeat(4, minmax(0, 1fr)); gap: 14px; }
+.og { display: flex; flex-direction: column; gap: 10px; padding: 22px 20px; background: var(--panel); border: 1px solid var(--line); text-decoration: none; color: var(--ink); min-width: 0; transition: border-color .2s; }
+.og:hover { border-color: var(--accent); }
+.og .tg { font-family: var(--f-display); font-weight: 700; font-size: 11px; letter-spacing: .16em; text-transform: uppercase; color: var(--accent); }
+.og h3 { font-size: 20px; font-weight: 800; line-height: 1.15; }
+.og p { font-size: 14px; color: var(--dim); line-height: 1.45; }
+.og .fx { display: flex; flex-wrap: wrap; gap: 6px; }
+.og .fx span { font-size: 12px; padding: 4px 8px; border: 1px solid var(--line); color: var(--dim); }
+.og .go { margin-top: auto; padding-top: 10px; font-family: var(--f-display); font-weight: 700; font-size: 14px; color: var(--accent); }
+.og-all { margin-top: 16px; font-size: 14px; }
+.og-all a { color: var(--accent); font-weight: 600; text-decoration: none; }
+@media (max-width: 1000px) { .og-grid { grid-template-columns: 1fr 1fr; } }
+@media (max-width: 560px) { .og-grid { grid-template-columns: 1fr; } }
+</style><section class="block" id="games"><div class="wrap"><div class="sec-head"><div><div class="eyebrow">Другие игры автора</div><h2>Ещё четыре игры</h2></div><p>Все игры ведёт Дмитрий Федосеев. Их можно сочетать в одной программе: например, «Финансовый год» на первый день смены, «ТРЕСТ» — на второй.</p></div><div class="og-grid"><a class="og" href="https://dfedoseev04.github.io/trest/"><div class="tg">Деловая игра на NFC-картах</div><h3>ТРЕСТ</h3><p>Команда за час управляет производственной компанией: решения — касанием карты, рынок и капитал — на большом экране.</p><div class="fx"><span>12–40 участников</span><span>1,5–4 часа</span></div><div class="go">Подробнее →</div></a><a class="og" href="https://dfedoseev04.github.io/finansovyj-god/"><div class="tg">Финансовая грамотность</div><h3>Финансовый год</h3><p>Четыре квартала: зарплата, обязательные платежи, вклады, кредиты и акции при меняющихся ставках.</p><div class="fx"><span>команды по 3</span><span>около часа</span></div><div class="go">Подробнее →</div></a><a class="og" href="https://dfedoseev04.github.io/bank/"><div class="tg">Финансовая безопасность</div><h3>Банковская деятельность</h3><p>Банки и клиенты проживают шесть лет за час: ставки, акции и обязательное задание перед каждой операцией.</p><div class="fx"><span>банки и клиенты</span><span>60 минут</span></div><div class="go">Подробнее →</div></a><a class="og" href="https://dfedoseev04.github.io/manipulyator/"><div class="tg">Ролевая игра-практикум</div><h3>Управляй манипулятором</h3><p>Пары разыгрывают манипуляции из реальной работы и учатся за три шага держать границы, не ломая партнёрство.</p><div class="fx"><span>в парах</span><span>от 20 минут</span></div><div class="go">Подробнее →</div></a></div><p class="og-all"><a href="https://dfedoseev04.github.io/#games">Все игры, тренинги и выступления →</a></p></div></section>
 
 <section class="block" id="faq"><div class="wrap faq-grid">
   <div class="sec-head" style="display:block;margin:0"><div class="eyebrow">Вопросы</div><h2>Что обычно спрашивают</h2></div>
@@ -440,7 +531,7 @@ footer .wrap { padding-block: 22px; display: flex; flex-wrap: wrap; gap: 8px 24p
     <div class="crow"><span>ВКонтакте</span><a href="https://vk.ru/faterful" target="_blank" rel="noopener">vk.ru/faterful</a><button class="copy" type="button" data-copy-text="vk.ru/faterful">Копировать</button></div>
   </div>
 </div></section>
-<footer><div class="wrap"><span>«Стройка» · живая деловая игра · <a href="https://dfedoseev04.github.io/" style="color:inherit">все игры Дмитрия Федосеева</a></span><span>© Дмитрий Федосеев, 2026</span></div></footer>
+<footer><div class="wrap"><span>«Стройка» · живая деловая игра · <a href="https://dfedoseev04.github.io/#games" style="color:inherit">все игры Дмитрия Федосеева</a></span><span>© Дмитрий Федосеев, 2026</span></div></footer>
 
 <script>
 document.querySelectorAll('.copy').forEach(b => b.addEventListener('click', () => {
